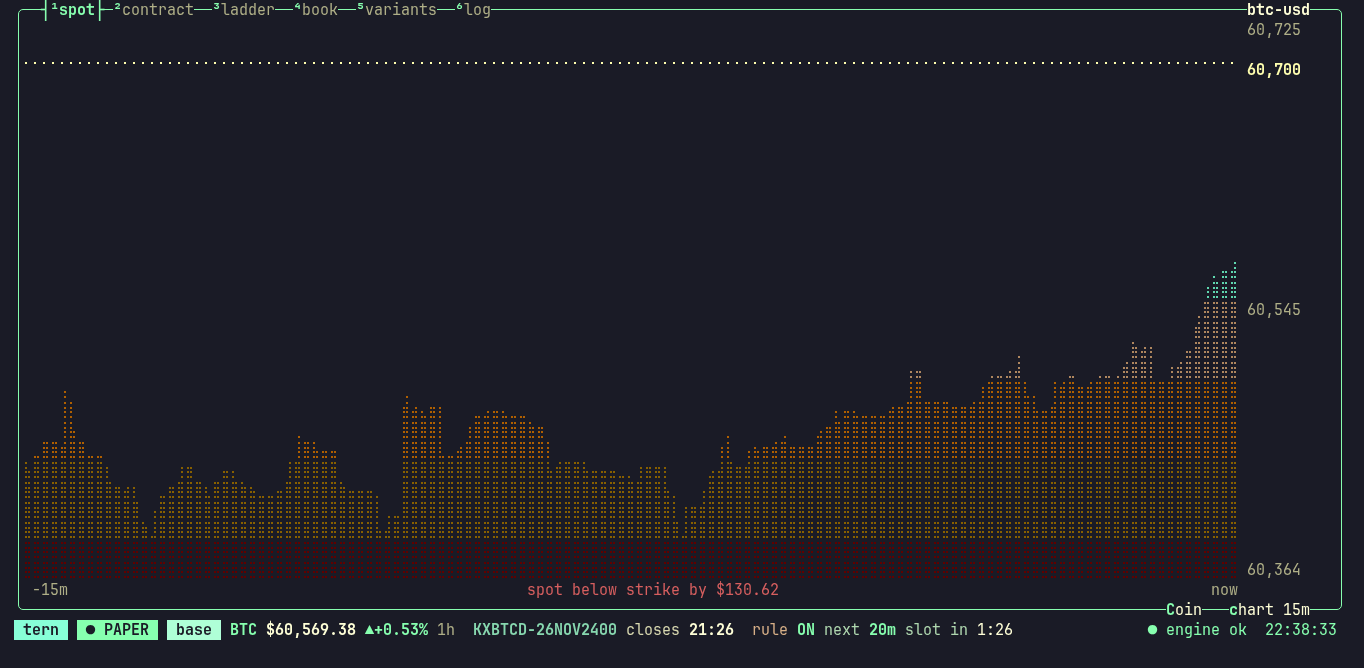
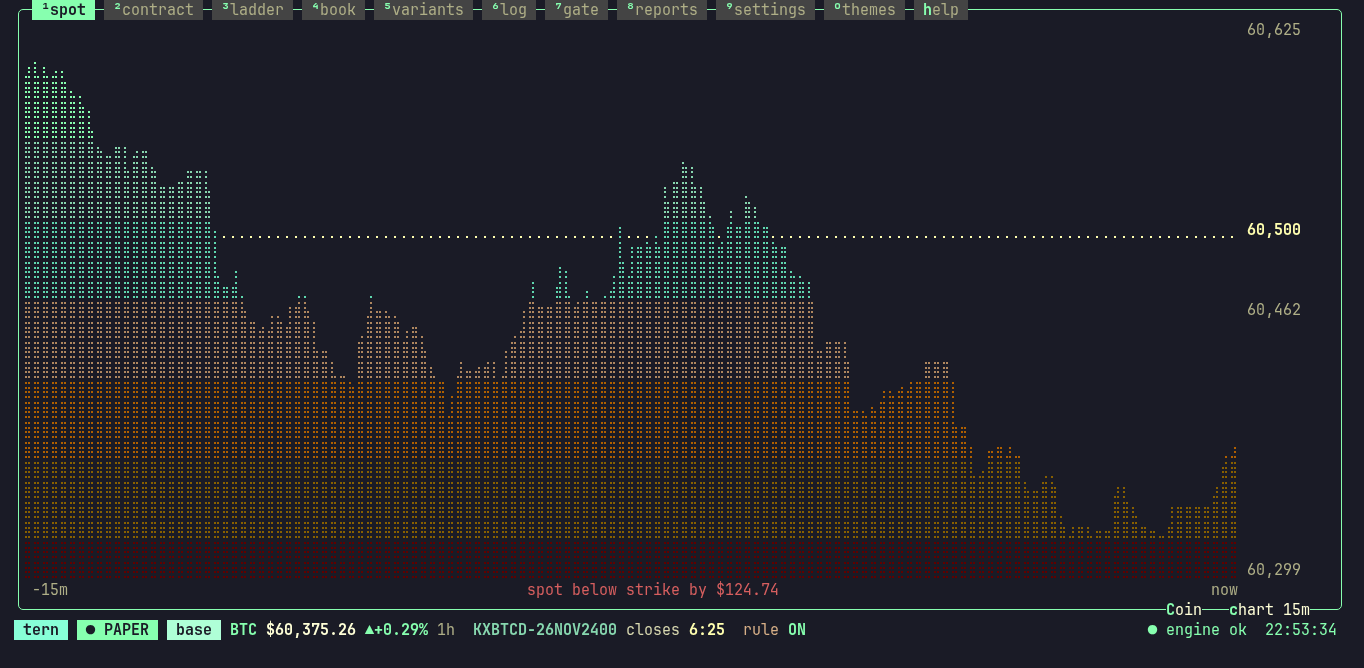
README screenshots retaken; the themes box

diff --git a/README.md b/README.md
@@ -270,6 +270,8 @@ systemctl --user enable --now tern-save-report.timer
 
 The themes box (`0`) lists 54 color themes; `↑↓` and `←→` pick one. Full color needs a 256-color terminal. Sunset and mint chip:
 
+<img width="1364" height="668" alt="The themes box" src="docs/screenshots/14-themes.png" />
+
 <img width="1364" height="668" alt="The sunset theme" src="docs/screenshots/09-theme-sunset.png" />
 
 <img width="1364" height="668" alt="The mint chip theme" src="docs/screenshots/10-theme-mint-chip.png" />
@@ -369,7 +371,7 @@ The major ones, newest first.
 
 | Date | Change |
 |---|---|
-| 2026-11-23 | **One list of variants.** Profiles, the separate paper book and `w` are gone: `enter` selects the variant the screen shows, `L` goes live with it, `e` there edits one as a new one, `space` turns one on or off and `r` renames one. `s` is the settings (was `e`) and `P` pauses the engine (was `S`). Every box fills the screen and the others are tabs (`1`–`6`, `tab`); the pages, zooming and the equity box are gone, `C` cycles coins and `V` is the book's paper/live view. Profiles' own variants move into the list with their records (see Settings). `tern report --profile` and `--profiles` are now `--periods`. |
+| 2026-11-23 | **One list of variants.** Profiles, the separate paper book and `w` are gone: `enter` selects the variant the screen shows, `L` goes live with it, `e` there edits one as a new one, `space` turns one on or off and `r` renames one. Every box fills the screen and the others are tabs (`1`–`9`, `0`, `h`, `tab`), the gate, reports, settings, themes and help too; the pages, zooming and the equity box are gone, `P` pauses the engine (was `S`), `C` cycles coins and `V` is the book's paper/live view. Profiles' own variants move into the list with their records (see Settings). `tern report --profile` and `--profiles` are now `--periods`. |
 | 2026-11-23 | **Cash limit on paper:** no variant, and not the paper book, buys more than the cash it has left. Entries from before could. A variant that is out of cash says so in the variants box. |
 | 2026-11-23 | **Variants hold every trading setting**, contracts a strike, most an hour and paper start too. `E` opens them as a draft and `s` saves it as a new variant; a saved one never changes, and only `enter` changes what trades. Settings (`e`) has the profile and the desk only, the same under every profile. `n` in the variants box, and the rule, paper and "book trades" rows in settings, are gone. Variants saved before keep their profile's size. |
 | 2026-11-23 | **AGPL license** (version 3 or later). It was MIT, then briefly the GPL; copies from then stay under those. |
